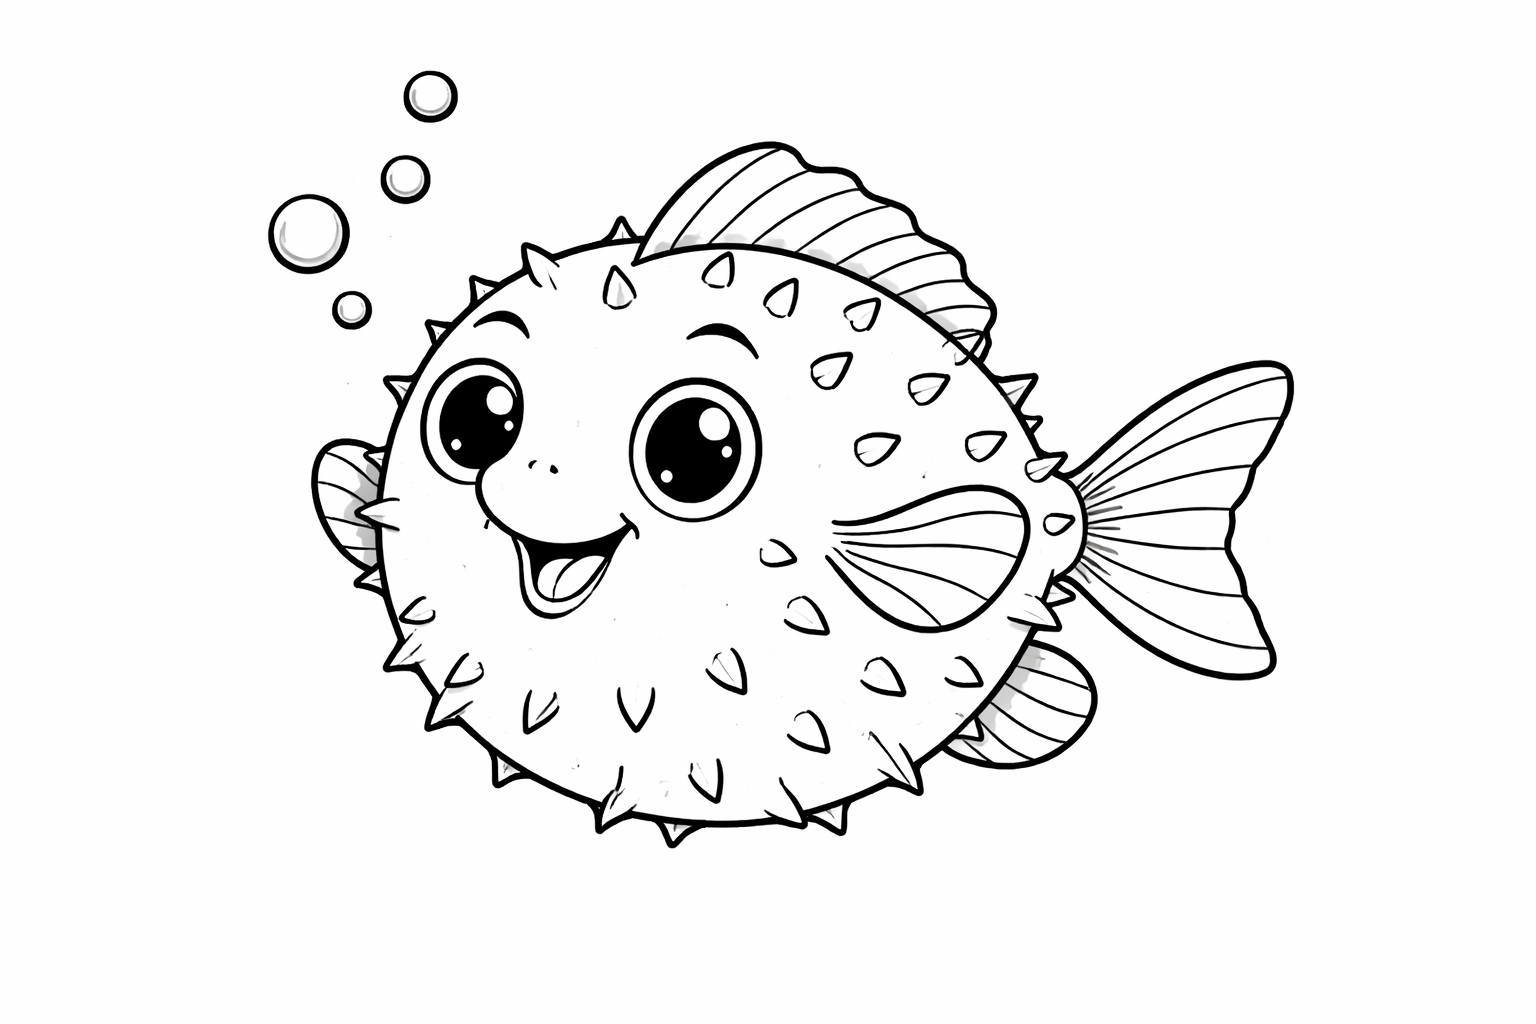
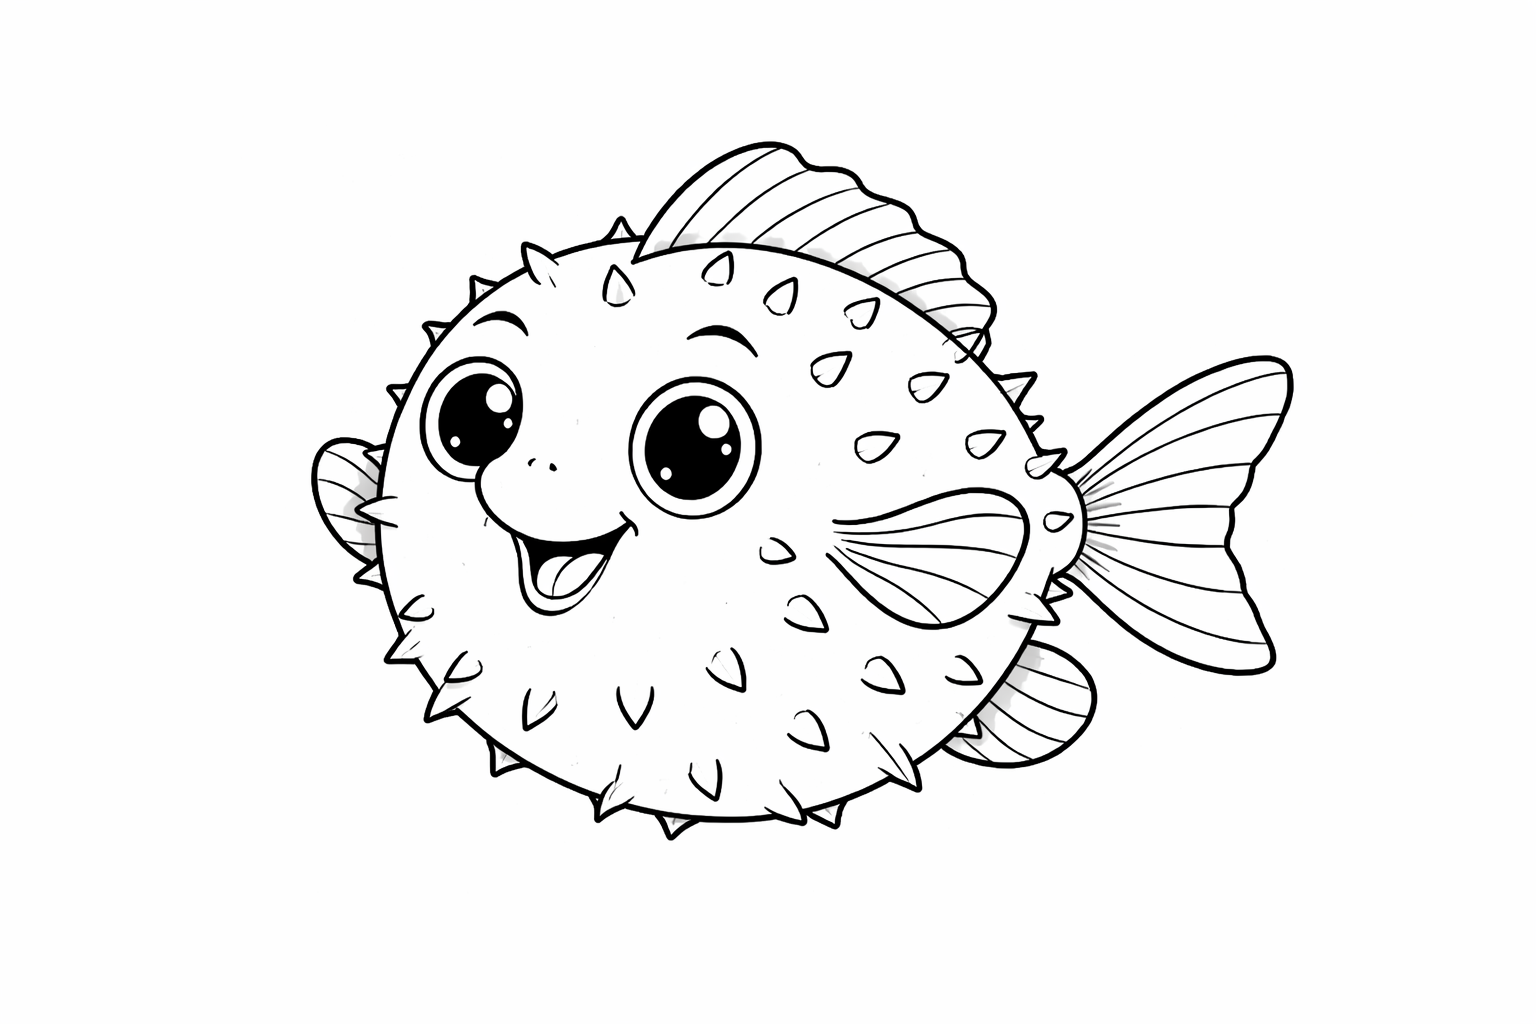
Fix line endings

diff --git a/public/aquarium.js b/public/aquarium.js
@@ -55,9 +55,6 @@ class Fish {
     this.name = (meta.name || '').trim();
     this.species = (meta.species || '').toLowerCase();
     this.isPuffer = this.species === 'puffer1';
-    this.isClown = this.species === 'fish3';
-    // Puffers hold their breath; clownfish apparently don't bubble either.
-    this.emitsBubbles = !(this.isPuffer || this.isClown);
     // Puff-up state: 0..1 scale overlay on the sprite.
     this.puffLevel = 0;
     this.puffTarget = 0;
@@ -221,12 +218,10 @@ class Fish {
     this.updateNameTag(tMs);
 
     // Occasional bubble emission from the fish's head region.
-    if (this.emitsBubbles) {
-      this.bubbleTimer -= dt;
-      if (this.bubbleTimer <= 0) {
-        this.bubbleTimer = 4 + this.rand() * 8;
-        this.emitBubble(w, h);
-      }
+    this.bubbleTimer -= dt;
+    if (this.bubbleTimer <= 0) {
+      this.bubbleTimer = 4 + this.rand() * 8;
+      this.emitBubble(w, h);
     }
 
     // Puffer-only: rare puff-up behavior.
@@ -237,20 +232,11 @@ class Fish {
     this.puffTimer -= dt;
     if (this.puffTimer <= 0 && this.puffTarget === 0) {
       this.puffTarget = 1;
-      // Stay puffed briefly, then deflate.
       setTimeout(() => { this.puffTarget = 0; }, 1400 + this.rand() * 800);
-      // Schedule the next puff far in the future so it's rare.
       this.puffTimer = 60 + this.rand() * 120;
-      // A puff emits a little ring of bubbles even for puffers.
-      const aspect = this.naturalW / this.naturalH;
-      const h = this.size;
-      const w = h * aspect;
-      for (let i = 0; i < 6; i++) this.emitBubble(w, h);
-      // Pause and hold position while puffed.
       this.isIdle = true;
       this.idleDuration = 1.8;
     }
-    // Ease toward target (inflate fast, deflate slower).
     const speed = this.puffTarget > this.puffLevel ? 3.5 : 1.4;
     this.puffLevel += (this.puffTarget - this.puffLevel) * Math.min(1, speed * dt);
   }
